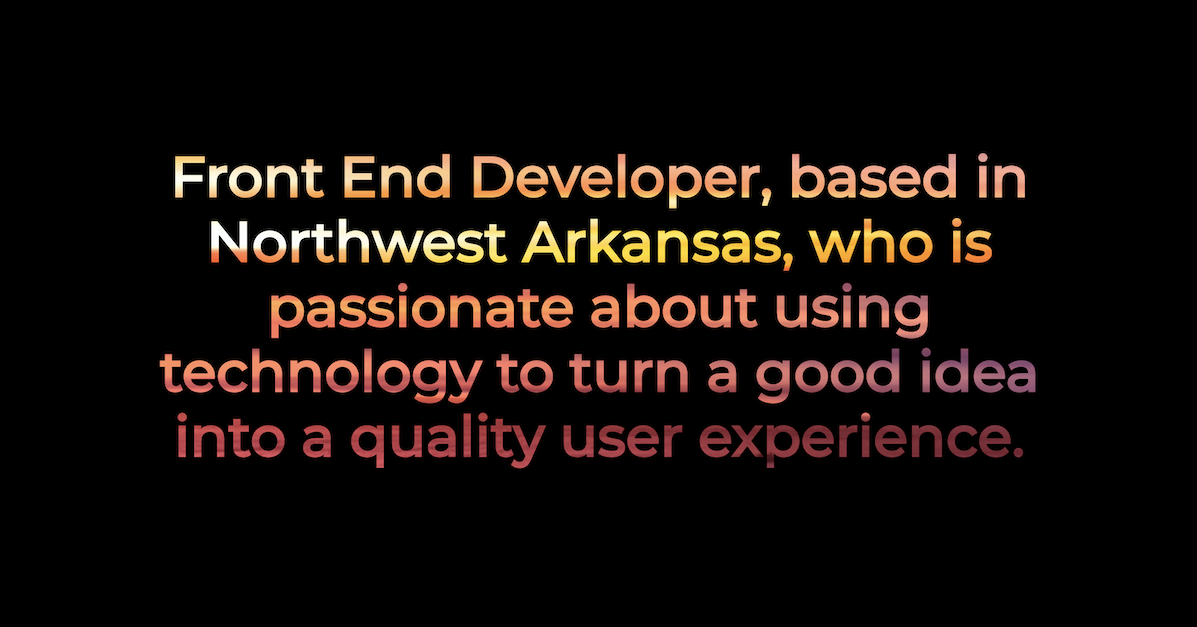
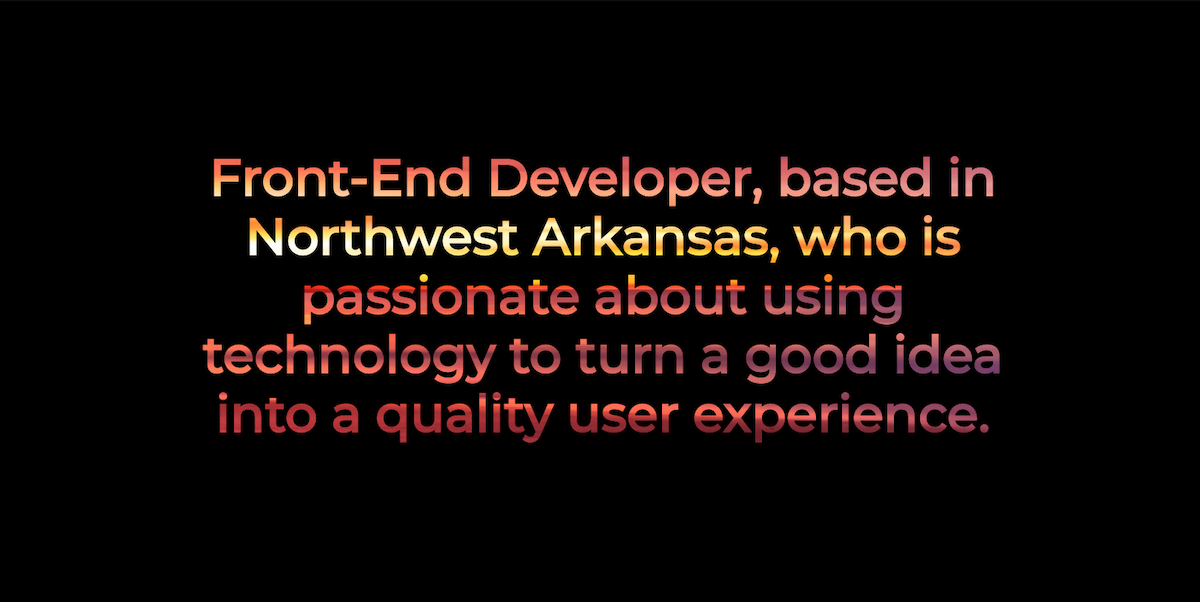
Added About Me

Changed region(s): [[0.1236, 0.2392, 0.8655, 0.7475]]

diff --git a/src/components/AboutMe.js b/src/components/AboutMe.js
@@ -1,0 +1,157 @@
+import React, { useEffect } from "react"
+import { makeStyles } from "@material-ui/core/styles"
+import { useInView, enter, InView } from "react-intersection-observer"
+import { motion, useAnimation } from "framer-motion"
+import { Typography } from "@material-ui/core"
+import Img from "gatsby-image"
+
+const useStyles = makeStyles(theme => ({
+  about: {
+    maxWidth: 1240,
+    display: "flex",
+    marginRight: "auto",
+    marginLeft: "auto",
+    [theme.breakpoints.down("xs")]: {
+      display: "block",
+    },
+  },
+  aboutPhotoDiv: {
+    maxWidth: 1080,
+  },
+  photo: {
+    display: "flex",
+    marginRight: "auto",
+    marginLeft: "auto",
+    width: "100%",
+  },
+  image: {
+    width: "100%",
+    [theme.breakpoints.down("xs")]: {
+      width: "80%",
+      marginRight: "auto",
+      marginLeft: "auto",
+      borderBottom: "3px solid black",
+    },
+  },
+  aboutSect: {
+    marginRight: "auto",
+    marginLeft: "auto",
+  },
+
+  aboutHead: {
+    paddingLeft: "5%",
+    fontWeight: 500,
+    fontSize: "2rem",
+    paddingTop: "10vh",
+    paddingBottom: "1%",
+    maxWidth: 1080,
+    marginTop: "1px",
+    [theme.breakpoints.down("xs")]: {
+      marginRight: "auto",
+      marginLeft: "auto",
+      fontSize: "26px",
+      width: "90%",
+      paddingTop: "6vh",
+    },
+  },
+
+  typeDiv: {
+    maxWidth: 1080,
+    width: "100%",
+    padding: "0 5% 5% 5%",
+    fontSize: "16px",
+    [theme.breakpoints.down("xs")]: {
+      marginRight: "auto",
+      marginLeft: "auto",
+      width: "90%",
+    },
+  },
+}))
+
+export default function AboutMe({ data }) {
+  const classes = useStyles()
+  const controls = useAnimation()
+  const [ref, InView, entry] = useInView()
+
+  useEffect(() => {
+    if (InView) {
+      controls.start("visible")
+    } else {
+      controls.start("hidden")
+    }
+  }, [controls, InView])
+
+  return (
+    <div className={classes.about}>
+      <div className={classes.photo}>
+        <Img
+          fluid={data.about.childImageSharp.fluid}
+          className={classes.image}
+        />
+      </div>
+      <div className={classes.aboutSect} id="about">
+        <motion.h2
+          ref={ref}
+          animate={controls}
+          initial="hidden"
+          transition={{ duration: 2 }}
+          variants={{
+            visible: { opacity: 1 },
+            hidden: { opacity: 0 },
+          }}
+          className={classes.aboutHead}
+        >
+          Hello, I'm Devan Hare.
+        </motion.h2>
+        <div className={classes.typeDiv}>
+          <motion.Typography
+            ref={ref}
+            animate={controls}
+            initial="hidden"
+            transition={{ duration: 2 }}
+            variants={{
+              visible: { opacity: 1 },
+              hidden: { opacity: 0 },
+            }}
+          >
+            I am a Front-End Web Developer who specializes in React. I have
+            experience managing multiple projects at a time, and I’m determined
+            to be the best developer I can. I believe time management and
+            organization are key to meeting deadlines and producing the best
+            version of a project.
+            <br></br>
+            <br></br>
+            I’m fueled by my passion for understanding the nuances of the many
+            tools and frameworks that drive development. In the time I’ve been
+            in this field, I’ve continually learned and tried to become better
+            than I was yesterday. There’s no better feeling than facing a
+            problem and figuring out a solution.
+            <br></br>
+            <br></br>I have several years of experience in the world outside of
+            development as a trainer and manager, so I know what it takes to get
+            a job done. This also helps me relate with clients. I can put myself
+            in their shoes and ask the right questions to problem solve and
+            figure out their priorities.
+            <br></br>
+            <br></br>
+            As much as I enjoy development, I’m even more excited about my
+            family (wife and daughter). I once heard it put this way: “In your
+            pursuit to change the world, don’t forget to love your family”.
+            That’s always stuck with me. It’s easy for me to get caught up in
+            what I’m doing and forget the real reason behind my career. The way
+            that I’ve combatted the struggle of a work/family balance is by
+            removing as many fruitless hobbies as I can and making the most of
+            moments where I peel my eyes away from the computer. This may seem
+            out of place on a portfolio, but I believe it’s one of the things
+            that makes a big difference in the attitude of a coworker.
+            <br></br>
+            <br></br>
+            I’m currently working on a contract basis with a company and
+            freelancing. If you’d like to work together in any capacity, please
+            connect and I’ll be happy to discuss any potential opportunities.
+          </motion.Typography>
+        </div>
+      </div>
+    </div>
+  )
+}

diff --git a/src/components/Navbar.js b/src/components/Navbar.js
@@ -21,7 +21,7 @@ const useStyles = makeStyles(theme => ({
   },
   menuButton1: {
     color: "#feea9f",
-    fontSize: 18,
+    fontSize: 20,
     fontWeight: 500,
     [theme.breakpoints.down("sm")]: {
       fontSize: 16,
@@ -29,7 +29,7 @@ const useStyles = makeStyles(theme => ({
   },
   menuButton2: {
     color: "#feb76d",
-    fontSize: 18,
+    fontSize: 20,
     fontWeight: 500,
     [theme.breakpoints.down("sm")]: {
       fontSize: 16,
@@ -37,7 +37,7 @@ const useStyles = makeStyles(theme => ({
   },
   menuButton3: {
     color: "#ee7364",
-    fontSize: 18,
+    fontSize: 20,
     fontWeight: 500,
     [theme.breakpoints.down("sm")]: {
       fontSize: 16,
@@ -45,7 +45,7 @@ const useStyles = makeStyles(theme => ({
   },
   menuButton4: {
     color: "#c06e7d",
-    fontSize: 18,
+    fontSize: 20,
     fontWeight: 500,
     [theme.breakpoints.down("sm")]: {
       fontSize: 16,
@@ -67,8 +67,14 @@ const useStyles = makeStyles(theme => ({
     marginBottom: 0,
   },
   app: {
+    paddingTop: 10,
+    paddingBottom: 10,
     backgroundColor: "#000",
     boxShadow: "0px 2px 3px #303030",
+    [theme.breakpoints.down("sm")]: {
+      paddingTop: 5,
+      paddingBottom: 5,
+    },
   },
 }))
 

diff --git a/src/components/AboutDiv.js b/src/components/AboutDiv.js
@@ -1,9 +1,9 @@
 import React, { useEffect } from "react"
 import { makeStyles } from "@material-ui/core/styles"
 import OppositeContentTimeline from "../components/Timeline"
-import { Typography } from "@material-ui/core"
 import { useInView, enter, InView } from "react-intersection-observer"
 import { motion, useAnimation } from "framer-motion"
+import AboutMe from "./AboutMe"
 
 const useStyles = makeStyles(theme => ({
   aboutSect: {
@@ -33,7 +33,7 @@ const useStyles = makeStyles(theme => ({
   },
 }))
 
-export default function Home() {
+export default function About({ data }) {
   const classes = useStyles()
   const controls = useAnimation()
   const [ref, InView, entry] = useInView()
@@ -49,6 +49,7 @@ export default function Home() {
   return (
     <div className={classes.aboutDiv}>
       <div className={classes.aboutSect} id="about">
+        <AboutMe data={data} />
         <motion.h2
           ref={ref}
           animate={controls}

diff --git a/src/components/Timeline.js b/src/components/Timeline.js
@@ -1,4 +1,4 @@
-import React, { useEffect } from "react"
+import React from "react"
 import Timeline from "@material-ui/lab/Timeline"
 import TimelineItem from "@material-ui/lab/TimelineItem"
 import TimelineSeparator from "@material-ui/lab/TimelineSeparator"
@@ -8,14 +8,6 @@ import TimelineDot from "@material-ui/lab/TimelineDot"
 import TimelineOppositeContent from "@material-ui/lab/TimelineOppositeContent"
 import Typography from "@material-ui/core/Typography"
 import { makeStyles } from "@material-ui/core/styles"
-import { useInView, enter, InView } from "react-intersection-observer"
-import {
-  motion,
-  useAnimation,
-  controls,
-  useViewportScroll,
-  useTransform,
-} from "framer-motion"
 import TimelineMay from "./TimelineComps/May2017"
 import TimelineJune from "./TimelineComps/June2019"
 import TimelineMarch from "./TimelineComps/March2020"

diff --git a/src/components/Header.js b/src/components/Header.js
@@ -1,6 +1,5 @@
 import React from "react"
 import { makeStyles } from "@material-ui/core/styles"
-import Img from "gatsby-image"
 import { Typography } from "@material-ui/core"
 import "./header.css"
 import { motion } from "framer-motion"
@@ -57,7 +56,7 @@ export default function Header() {
           transition={{ duration: 2 }}
         >
           <Typography id="test" variant="h1" className={classes.type}>
-            Front End Developer, based in Northwest Arkansas, who is passionate
+            Front-End Developer, based in Northwest Arkansas, who is passionate
             about using technology to turn a good idea into a quality user
             experience.
           </Typography>

diff --git a/src/components/ProjectCards/APIGen.js b/src/components/ProjectCards/APIGen.js
@@ -5,7 +5,6 @@ import Typography from "@material-ui/core/Typography"
 import APIGen from "../../images/api.png"
 import Modal from "@material-ui/core/Modal"
 import Button from "@material-ui/core/Button"
-import motion from "framer-motion"
 
 //for modal
 function getModalStyle() {
@@ -136,7 +135,7 @@ const useStyles = makeStyles(theme => ({
   },
 }))
 
-export default function ButtonBases() {
+export default function APIGen() {
   const classes = useStyles()
   // getModalStyle is not a pure function, we roll the style only on the first render
   const [modalStyle] = React.useState(getModalStyle)

diff --git a/src/pages/index.js b/src/pages/index.js
@@ -50,7 +50,7 @@ export default function Home({ data }) {
           <Navbar />
           <Header data={data} />
         </div>
-        <About />
+        <About data={data} />
         <Project />
 
         <Contact />
@@ -61,7 +61,7 @@ export default function Home({ data }) {
 
 export const query = graphql`
   query {
-    logo: file(relativePath: { eq: "my-logo.png" }) {
+    about: file(relativePath: { eq: "devan-hare.png" }) {
       childImageSharp {
         fluid(maxWidth: 1000) {
           ...GatsbyImageSharpFluid

diff --git a/src/components/ProjectCards/RegistrationForm.js b/src/components/ProjectCards/RegistrationForm.js
@@ -135,7 +135,7 @@ const useStyles = makeStyles(theme => ({
   },
 }))
 
-export default function ButtonBases() {
+export default function RegistrationForm() {
   const classes = useStyles()
   // getModalStyle is not a pure function, we roll the style only on the first render
   const [modalStyle] = React.useState(getModalStyle)

diff --git a/src/components/ProjectCards/HareDevelopment.js b/src/components/ProjectCards/HareDevelopment.js
@@ -132,7 +132,7 @@ const useStyles = makeStyles(theme => ({
   },
 }))
 
-export default function ButtonBases() {
+export default function HareDevelopment() {
   const classes = useStyles()
   // getModalStyle is not a pure function, we roll the style only on the first render
   const [modalStyle] = React.useState(getModalStyle)

diff --git a/src/components/ProjectCards/ThePointe.js b/src/components/ProjectCards/ThePointe.js
@@ -132,7 +132,7 @@ const useStyles = makeStyles(theme => ({
   },
 }))
 
-export default function ButtonBases() {
+export default function ThePointeCard() {
   const classes = useStyles()
   // getModalStyle is not a pure function, we roll the style only on the first render
   const [modalStyle] = React.useState(getModalStyle)

diff --git a/src/components/ProjectCards/HareDent.js b/src/components/ProjectCards/HareDent.js
@@ -132,7 +132,7 @@ const useStyles = makeStyles(theme => ({
   },
 }))
 
-export default function ButtonBases() {
+export default function HareDentCard() {
   const classes = useStyles()
   // getModalStyle is not a pure function, we roll the style only on the first render
   const [modalStyle] = React.useState(getModalStyle)

diff --git a/src/components/ProjectCards/OverlandRentals.js b/src/components/ProjectCards/OverlandRentals.js
@@ -132,7 +132,7 @@ const useStyles = makeStyles(theme => ({
   },
 }))
 
-export default function ButtonBases() {
+export default function OverlandCard() {
   const classes = useStyles()
   // getModalStyle is not a pure function, we roll the style only on the first render
   const [modalStyle] = React.useState(getModalStyle)
